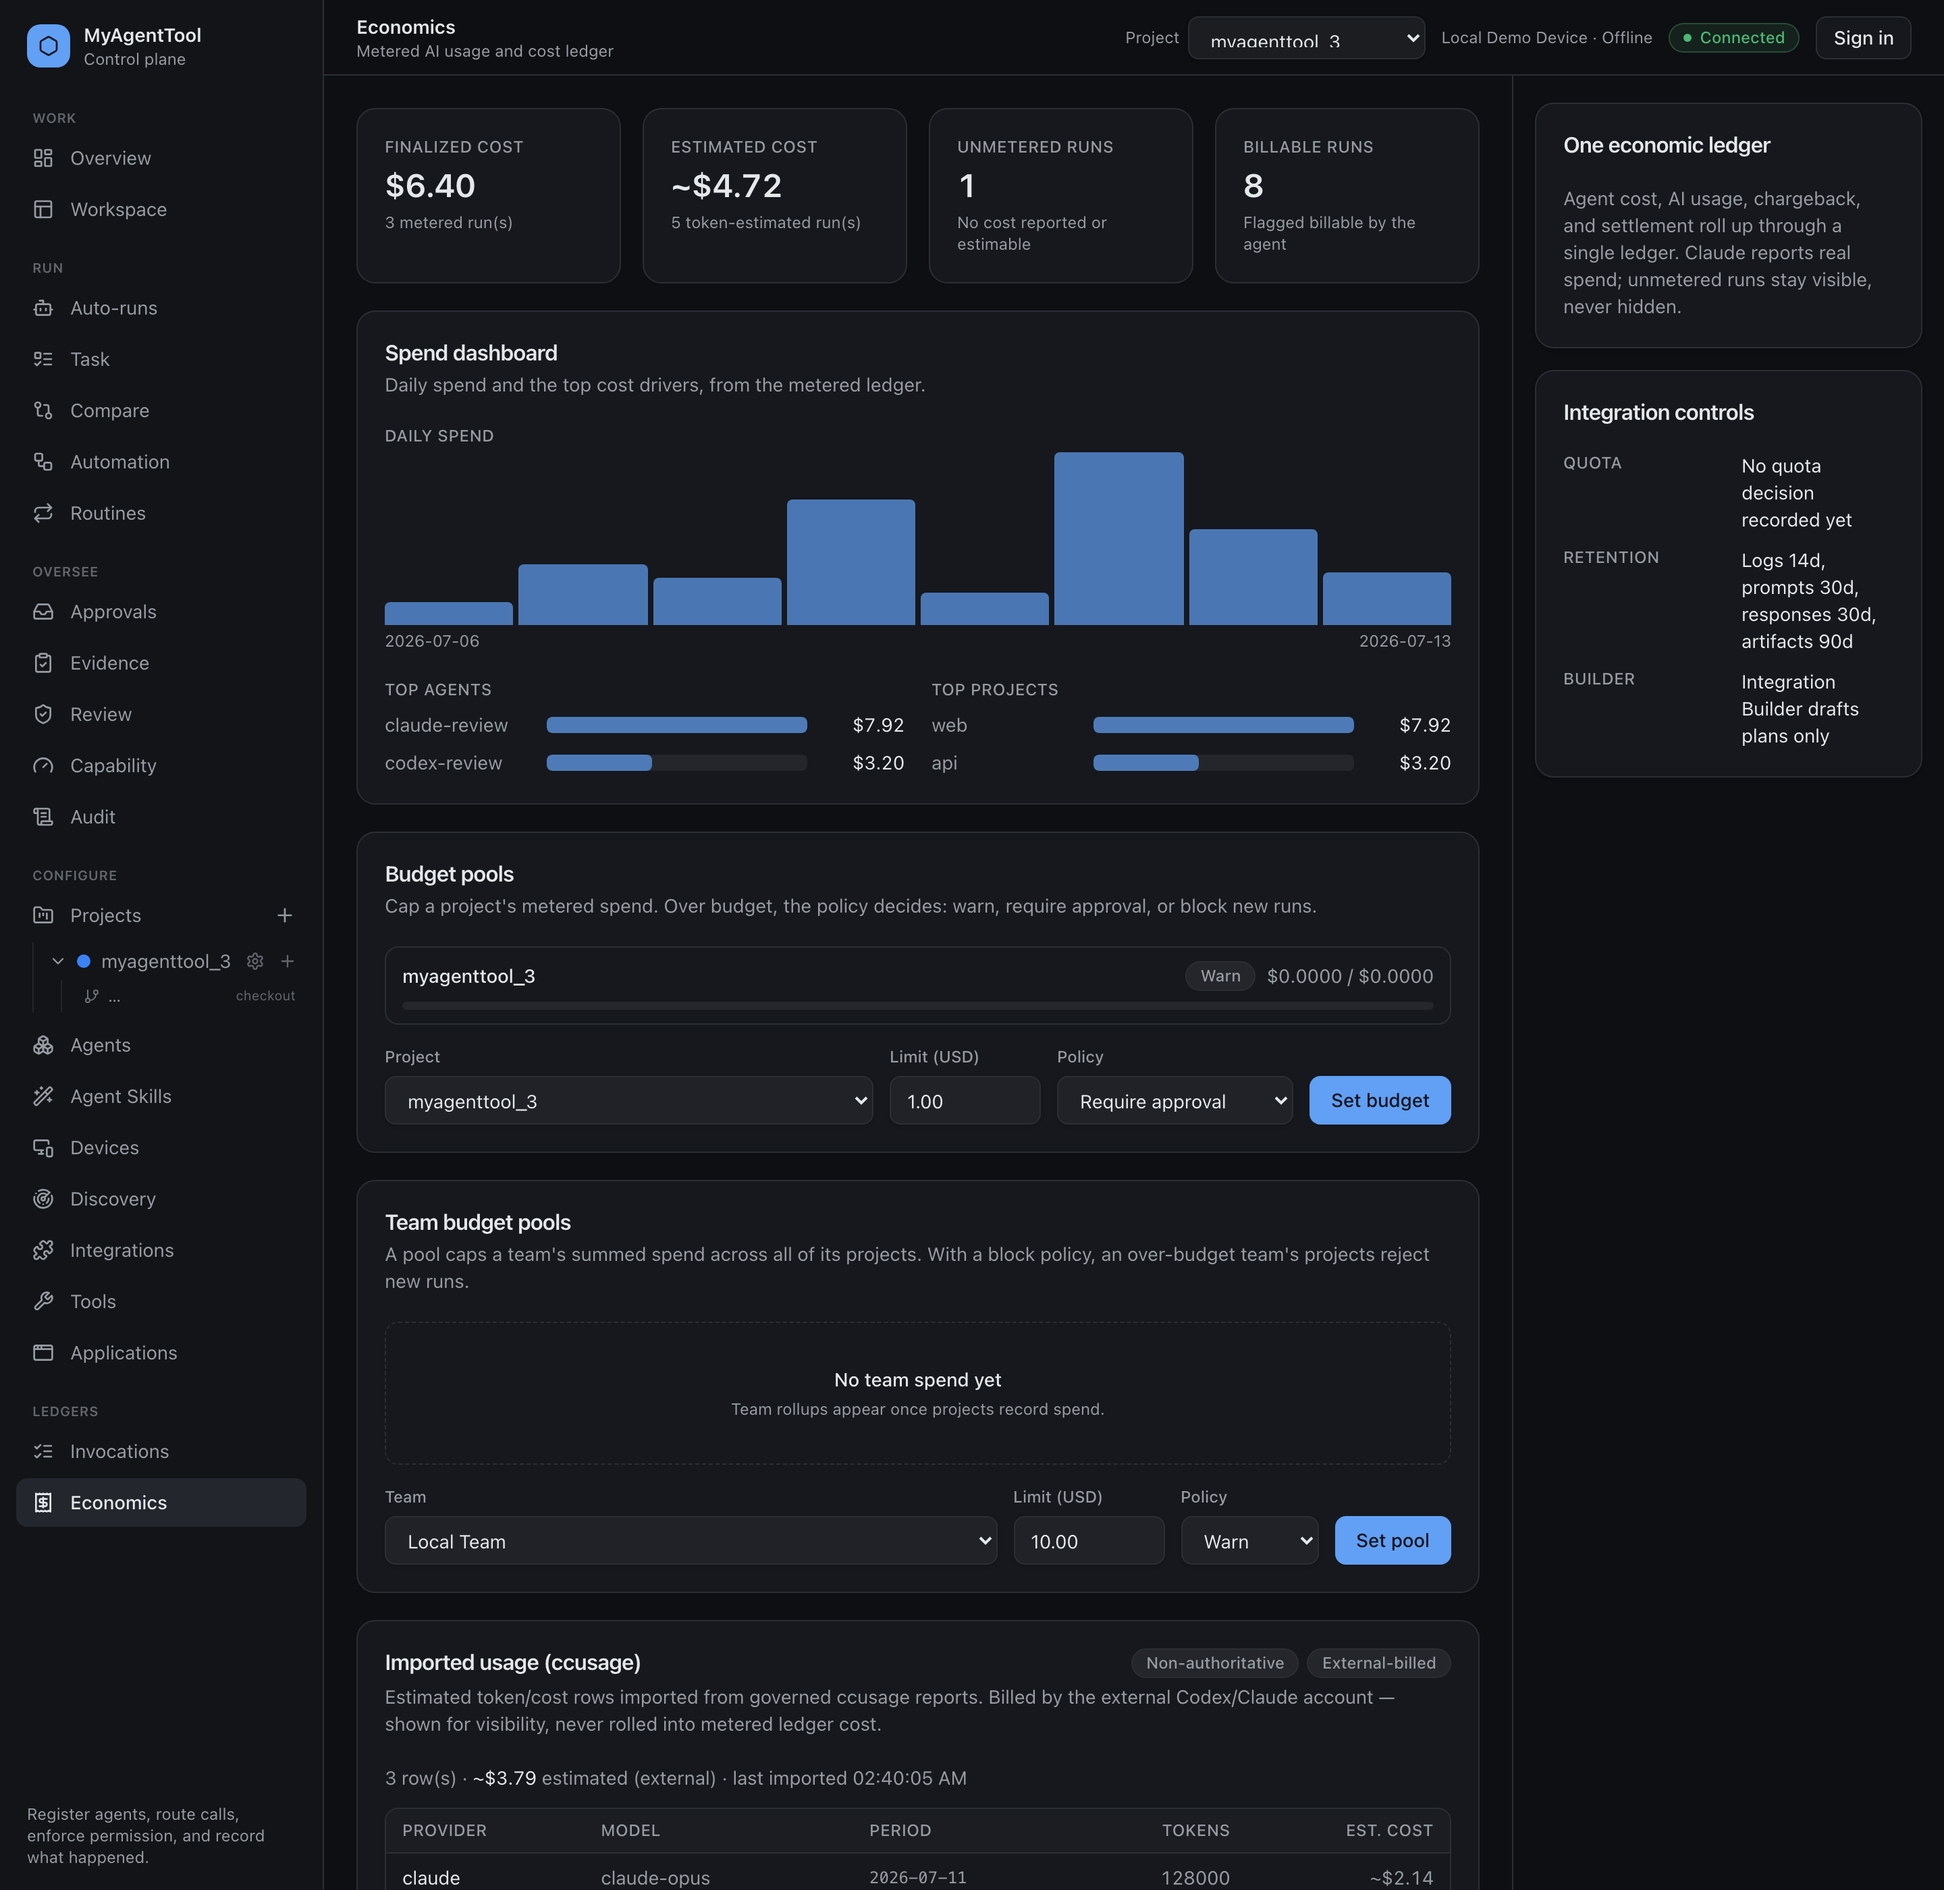
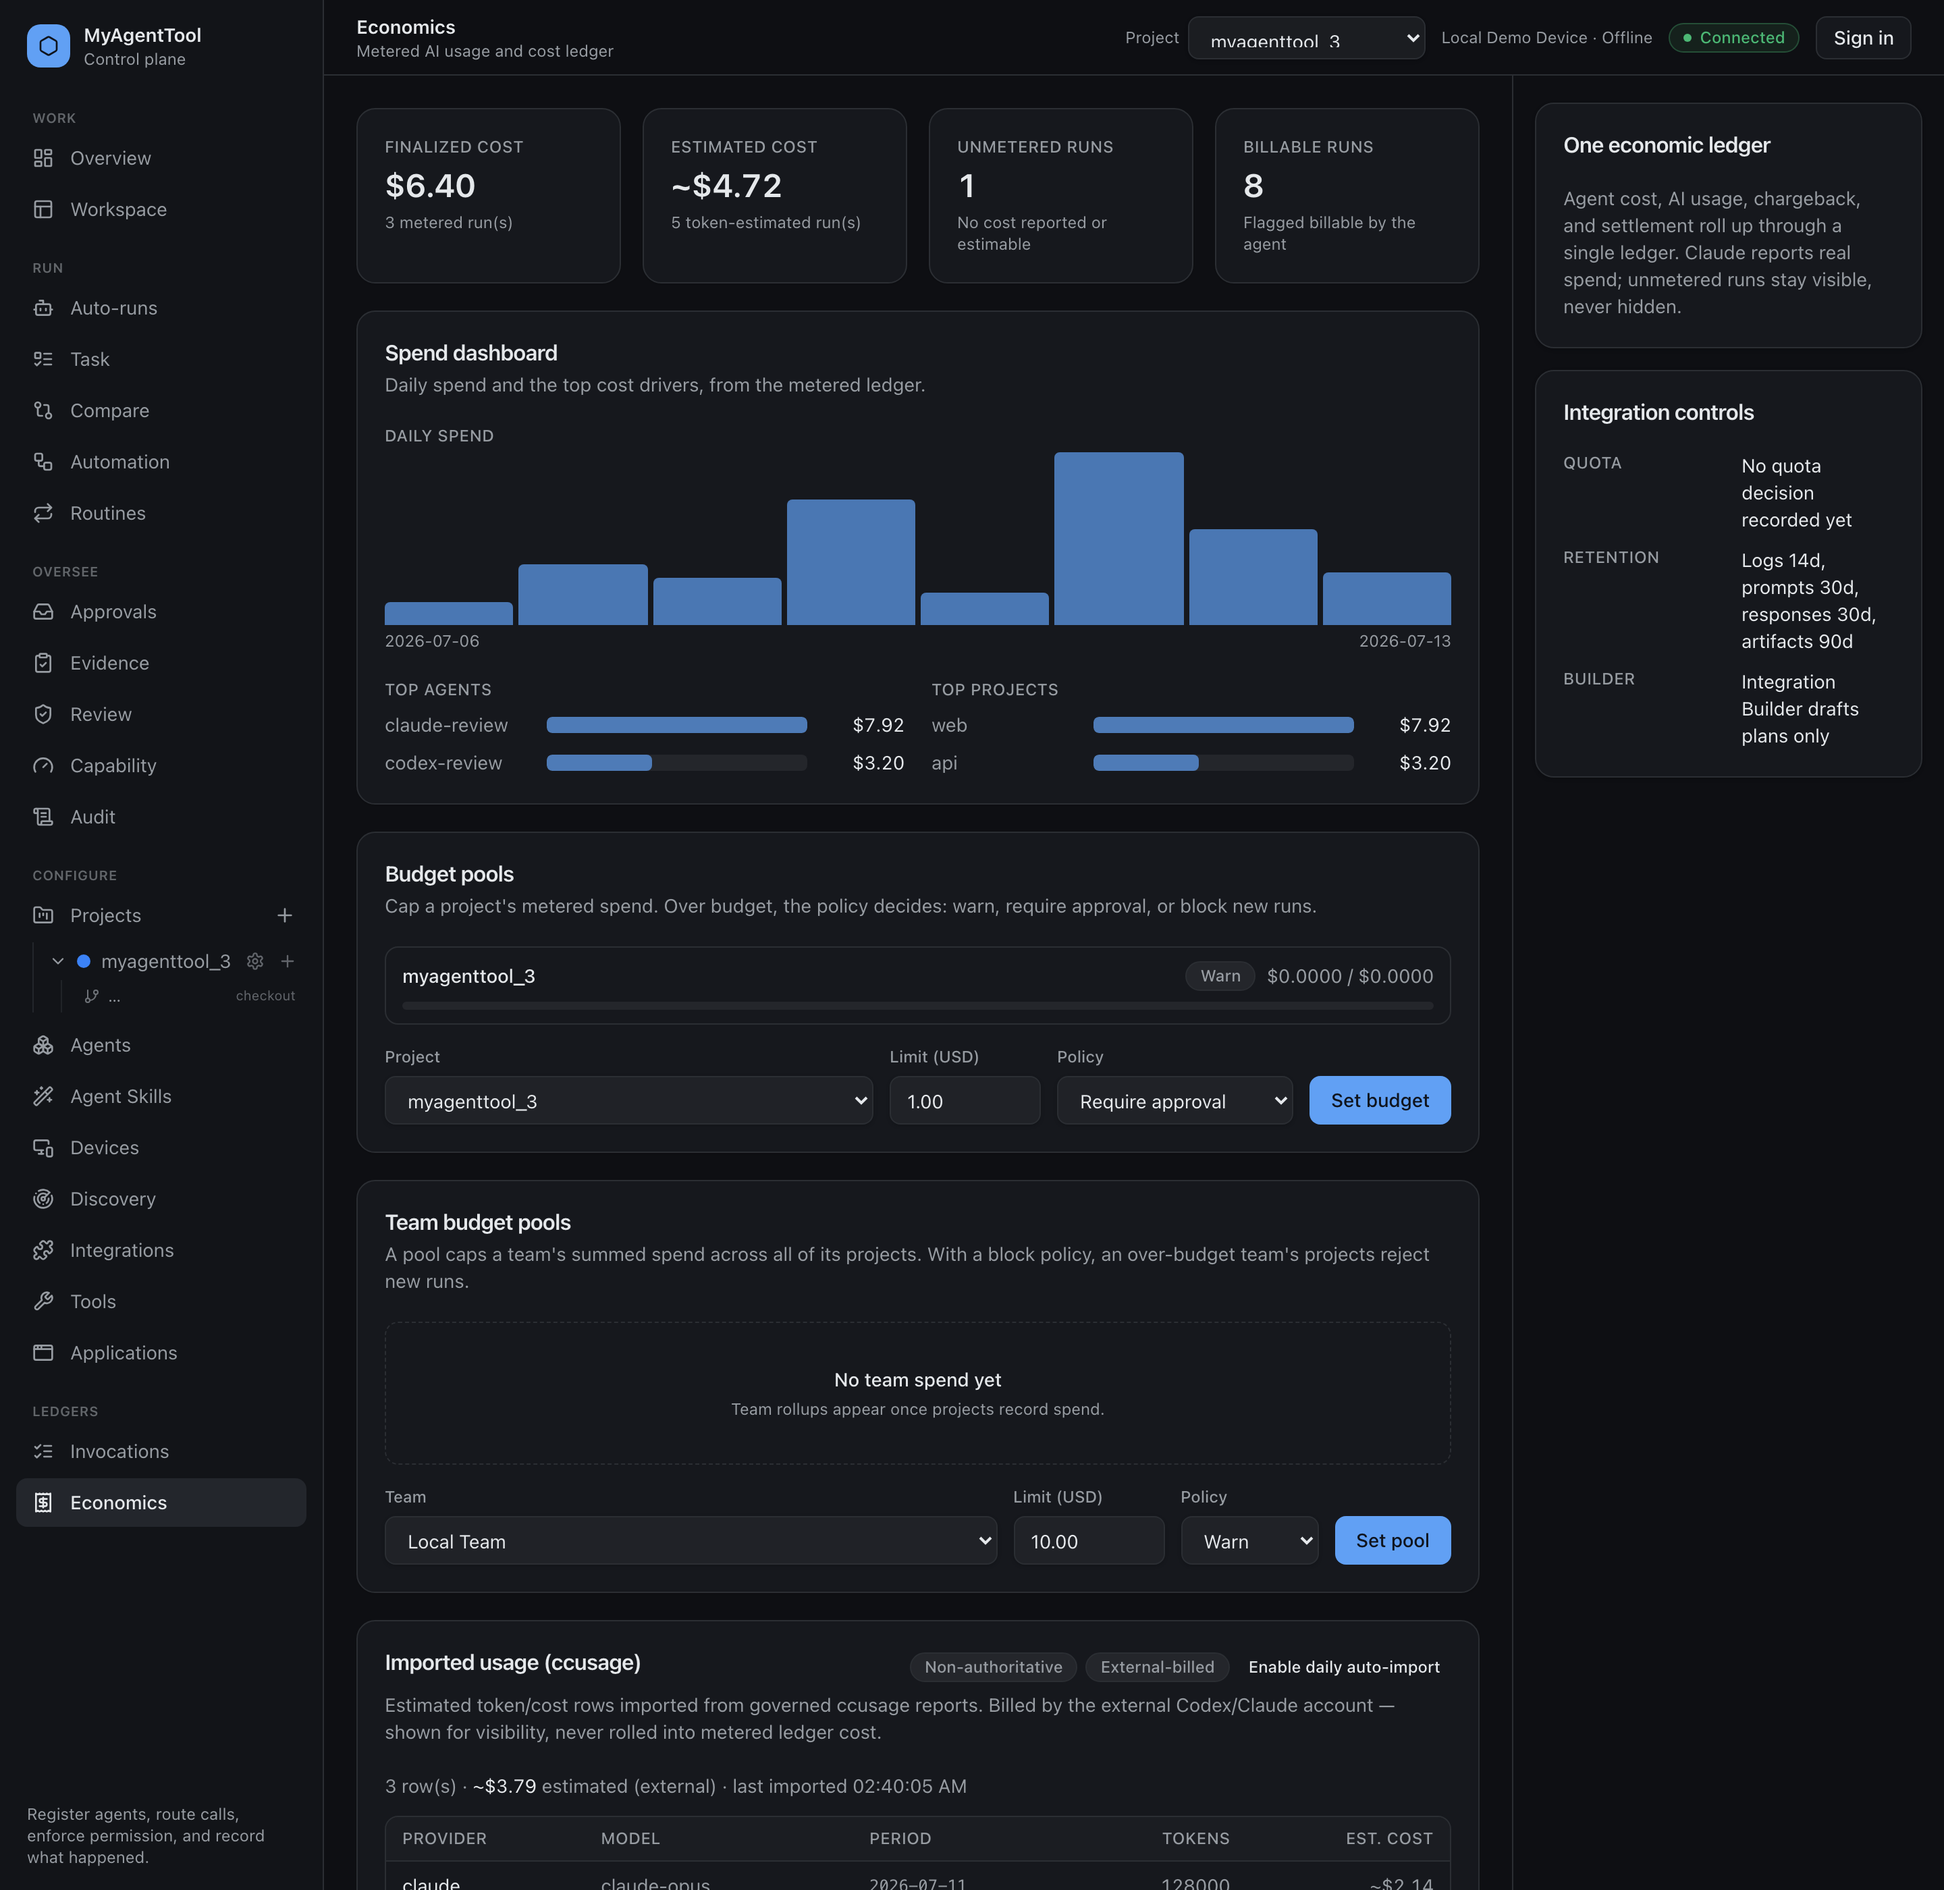
feat(web): one-click ccusage daily auto-import toggle (#901)
ccusage is a local app whose usage should sync without manual imports. The
capability-automation infra already supports it, and #882 made repeated imports
idempotent (safe to schedule). Add an opt-in "Enable daily auto-import" toggle to
the economics Imported-usage (ccusage) card: on → creates one daily capability
automation for app.app_ccusage.wrapper.daily; off → removes it. Reuses the
existing /api/automations create/delete endpoints (which already require the app
registered via the capability-target check), so no new server code. Off by
default, matching the conservative autoOnline:false posture.

Tests: enabling posts a daily capability automation, disabling deletes it, the
toggle is disabled with no current project, plus the existing freshness/empty
cases. 161 web tests pass; typecheck + build clean; visual QA screenshot updated.

diff --git a/apps/web/src/features/economics/imported-usage-card.tsx b/apps/web/src/features/economics/imported-usage-card.tsx
@@ -1,10 +1,15 @@
 import { Card, CardContent, CardHeader, CardTitle } from "@/components/ui/card";
 import { Badge } from "@/components/ui/badge";
+import { Button } from "@/components/ui/button";
 import { EmptyState } from "@/components/common/empty-state";
 import { useConsoleState } from "@/data/use-console-state";
+import { useAsyncAction, api } from "@/data/use-console-actions";
 import { formatUsd as usd } from "@/lib/money";
 import { shortTime } from "@/lib/readable-labels";
 import { ImportedUsageTable } from "@/features/economics/imported-usage-table";
+
+// The daily ccusage report capability an opt-in automation targets.
+const CCUSAGE_DAILY_CAPABILITY = "app.app_ccusage.wrapper.daily";
 
 /**
  * ccusage-imported usage estimates. Kept visually distinct from the metered
@@ -14,31 +19,63 @@ import { ImportedUsageTable } from "@/features/economics/imported-usage-table";
 export function ImportedUsageCard() {
   const { data: state } = useConsoleState();
   const estimates = state?.importedUsageEstimates ?? [];
+  const { execute, pending, error } = useAsyncAction();
 
   const totalUsd = estimates.reduce((sum, row) => sum + (row.estimatedCostUsd ?? 0), 0);
   // Freshness: the newest row's import time, so stale/paused data doesn't look current.
   const lastImported = estimates.reduce((latest, row) => (row.createdAt > latest ? row.createdAt : latest), "");
+
+  // Opt-in daily auto-import: a capability automation for the ccusage daily
+  // report (#901). Idempotent now that imports dedup (#882). Off by default.
+  const autoImport = (state?.automations ?? []).find(
+    (automation) => automation.target?.kind === "capability" && automation.target?.capability === CCUSAGE_DAILY_CAPABILITY,
+  );
+  const projectId = state?.currentProjectId ?? null;
+
+  function toggleAutoImport() {
+    if (autoImport) {
+      void execute(() => api.deleteAutomation(autoImport.id));
+    } else if (projectId) {
+      void execute(() => api.createAutomation({
+        projectId,
+        name: "ccusage daily auto-import",
+        schedule: { kind: "daily", time: "09:00" },
+        target: { kind: "capability", capability: CCUSAGE_DAILY_CAPABILITY },
+      }));
+    }
+  }
 
   return (
     <Card>
       <CardHeader>
         <div className="flex items-start justify-between gap-3">
           <CardTitle>Imported usage (ccusage)</CardTitle>
-          <div className="flex shrink-0 gap-1.5">
+          <div className="flex shrink-0 items-center gap-1.5">
             <Badge tone="neutral">Non-authoritative</Badge>
             <Badge tone="neutral">External-billed</Badge>
+            <Button
+              variant={autoImport ? "secondary" : "ghost"}
+              size="sm"
+              className="h-7 px-2 text-xs"
+              disabled={pending || (!autoImport && !projectId)}
+              onClick={toggleAutoImport}
+              title={!autoImport && !projectId ? "Select a project first" : "Schedule a daily ccusage report to import automatically"}
+            >
+              {autoImport ? "Auto-import daily: on" : "Enable daily auto-import"}
+            </Button>
           </div>
         </div>
         <p className="text-sm text-muted-foreground">
           Estimated token/cost rows imported from governed ccusage reports. Billed by the external
           Codex/Claude account — shown for visibility, never rolled into metered ledger cost.
         </p>
+        {error ? <p className="text-xs text-destructive">{String(error)}</p> : null}
       </CardHeader>
       <CardContent>
         {!estimates.length ? (
           <EmptyState
             title="No imported usage yet"
-            hint="Run the ccusage.report tool from the Tools panel to import estimates."
+            hint="Enable daily auto-import above, or run the ccusage.report tool from the Tools panel."
           />
         ) : (
           <div className="space-y-3">

diff --git a/apps/web/src/features/economics/imported-usage-card.test.tsx b/apps/web/src/features/economics/imported-usage-card.test.tsx
@@ -1,13 +1,28 @@
-import { cleanup, render, screen } from "@testing-library/react";
+import { cleanup, fireEvent, render, screen } from "@testing-library/react";
 import { createElement } from "react";
 import { afterEach, describe, expect, it, vi } from "vitest";
 
 const stateMock = vi.hoisted(() => ({ data: undefined as unknown }));
 vi.mock("@/data/use-console-state", () => ({ useConsoleState: () => stateMock }));
 
+const actionMock = vi.hoisted(() => ({
+  execute: vi.fn((fn: () => unknown) => fn()),
+  createAutomation: vi.fn((_payload?: Record<string, unknown>) => Promise.resolve({})),
+  deleteAutomation: vi.fn((_id?: string) => Promise.resolve({})),
+}));
+vi.mock("@/data/use-console-actions", () => ({
+  useAsyncAction: () => ({ execute: actionMock.execute, pending: false, error: null }),
+  api: { createAutomation: actionMock.createAutomation, deleteAutomation: actionMock.deleteAutomation },
+}));
+
 import { ImportedUsageCard } from "@/features/economics/imported-usage-card";
 
-afterEach(cleanup);
+const CAP = "app.app_ccusage.wrapper.daily";
+
+afterEach(() => {
+  cleanup();
+  vi.clearAllMocks();
+});
 
 const row = (over: Record<string, unknown>) => ({
   id: "ccu_x", source: "ccusage", provider: "anthropic", model: "claude-opus",
@@ -19,6 +34,7 @@ const row = (over: Record<string, unknown>) => ({
 describe("ImportedUsageCard", () => {
   it("shows a last-imported freshness label from the newest row", () => {
     stateMock.data = {
+      currentProjectId: "prj", automations: [],
       importedUsageEstimates: [
         row({ id: "ccu_1", createdAt: "2026-07-10T09:00:00.000Z" }),
         row({ id: "ccu_2", createdAt: "2026-07-11T14:30:00.000Z", estimatedCostUsd: 1.2 }),
@@ -26,13 +42,40 @@ describe("ImportedUsageCard", () => {
     };
     render(createElement(ImportedUsageCard));
     expect(screen.getByText(/last imported/)).toBeTruthy();
-    expect(screen.getByText(/row\(s\)/)).toBeTruthy();
   });
 
   it("shows the empty state (and no freshness label) with no estimates", () => {
-    stateMock.data = { importedUsageEstimates: [] };
+    stateMock.data = { currentProjectId: "prj", automations: [], importedUsageEstimates: [] };
     render(createElement(ImportedUsageCard));
     expect(screen.getByText("No imported usage yet")).toBeTruthy();
     expect(screen.queryByText(/last imported/)).toBeNull();
+  });
+
+  it("enabling schedules a daily ccusage capability automation", () => {
+    stateMock.data = { currentProjectId: "prj", automations: [], importedUsageEstimates: [] };
+    render(createElement(ImportedUsageCard));
+    fireEvent.click(screen.getByRole("button", { name: /Enable daily auto-import/i }));
+    expect(actionMock.createAutomation).toHaveBeenCalledTimes(1);
+    const payload = actionMock.createAutomation.mock.calls[0][0] as Record<string, any>;
+    expect(payload.projectId).toBe("prj");
+    expect(payload.schedule.kind).toBe("daily");
+    expect(payload.target).toEqual({ kind: "capability", capability: CAP });
+  });
+
+  it("disabling removes the existing ccusage automation", () => {
+    stateMock.data = {
+      currentProjectId: "prj",
+      automations: [{ id: "atm_1", target: { kind: "capability", capability: CAP } }],
+      importedUsageEstimates: [],
+    };
+    render(createElement(ImportedUsageCard));
+    fireEvent.click(screen.getByRole("button", { name: /Auto-import daily: on/i }));
+    expect(actionMock.deleteAutomation).toHaveBeenCalledWith("atm_1");
+  });
+
+  it("the toggle is disabled when there is no current project to attach to", () => {
+    stateMock.data = { currentProjectId: null, automations: [], importedUsageEstimates: [] };
+    render(createElement(ImportedUsageCard));
+    expect(screen.getByRole("button", { name: /Enable daily auto-import/i })).toHaveProperty("disabled", true);
   });
 });

diff --git a/docs/engineering/visual-qa/economics/README.md b/docs/engineering/visual-qa/economics/README.md
@@ -13,8 +13,9 @@ The wide capture shows the Economics view as shipped: the **Spend dashboard**
 **Top agents** / **Top projects** magnitude bars with direct USD labels
 (single-hue marks on the theme's primary token, recessive tracks, dark-mode
 correct) — and, lower on the page, the **Imported usage (ccusage)** card showing
-the `last imported <time>` freshness label (#883). The cost-ledger table is the
-table view.
+the `last imported <time>` freshness label (#883) and the opt-in
+**"Enable daily auto-import"** toggle (#901). The cost-ledger table is the table
+view.
 
 ## How these were captured
 
